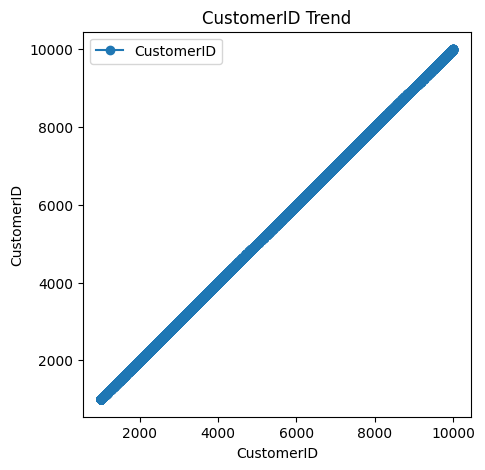
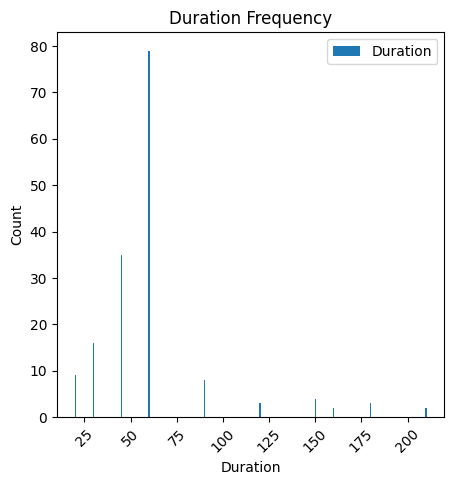
Updated UI and features

Changed region(s): [[0.0, 0.0, 0.9868, 0.983], [0.0617, 0.6553, 0.1233, 0.6851], [0.0617, 0.1787, 0.1233, 0.2085]]

diff --git a/app.py b/app.py
@@ -36,6 +36,97 @@ st.set_page_config(
     page_title="AI Data Analyst",
     layout="wide"
 )
+
+st.markdown("""
+<style>
+.stDownloadButton {
+    margin-bottom: 80px;
+}
+</style>
+""", unsafe_allow_html=True)
+
+st.markdown("""
+<style>
+
+/* Main page spacing */
+.main .block-container {
+    padding-bottom: 140px;
+}
+
+/* Keep chat input above footer */
+.stChatInput {
+    bottom: 90px !important;
+}
+
+/* Fixed Footer */
+.footer {
+    position: fixed;
+    bottom: 0;
+    left: 250px;
+    width: calc(100% - 250px);
+    background: #000814;
+    color: white;
+    text-align: center;
+    padding: 10px;
+    z-index: 999999;
+    border-top: 1px solid #1d4ed8;
+}
+
+/* Prevent footer flicker */
+[data-testid="stAppViewContainer"] {
+    overflow-x: hidden;
+}
+
+</style>
+""", unsafe_allow_html=True)
+
+
+st.markdown("""
+<style>
+
+/* Add space at bottom of page */
+.main .block-container {
+    padding-bottom: 180px;
+}
+
+/* Move chat input above footer */
+.stChatInput {
+    bottom: 90px !important;
+}
+
+/* Footer */
+.footer {
+    position: fixed;
+    bottom: 0;
+    left: 250px;
+    width: calc(100% - 250px);
+    background-color: #000814;
+    color: white;
+    text-align: center;
+    padding: 10px;
+    z-index: 999;
+}
+
+</style>
+""", unsafe_allow_html=True)
+
+
+st.markdown("""
+<style>
+
+/* Fix chat input width and position */
+.stChatInput {
+    position: fixed !important;
+    bottom: 85px !important;
+    left: 290px !important;
+    width: calc(100% - 340px) !important;
+    z-index: 998;
+}
+
+</style>
+""", unsafe_allow_html=True)
+
+
 st.markdown("""
 <style>
 
@@ -1057,6 +1148,11 @@ if file_to_load:
                 )
             voice_text = transcript.text
             st.success(f"🎤 You said: {voice_text}")
+    
+    st.markdown("<div style='margin-bottom:120px;'></div>", unsafe_allow_html=True)
+
+    st.markdown("<div style='margin-top:80px;'></div>", unsafe_allow_html=True)
+
 
     # ================= MERGED CHAT INPUT =================
 
@@ -1159,6 +1255,14 @@ if file_to_load:
     mime="application/pdf"
     )
 
+
+
+st.markdown("""
+<div class="footer">
+🚀 AI Data Analyst Assistant<br>
+Developed by Mamadou Djouhe Bah
+</div>
+""", unsafe_allow_html=True)
 
 
 
